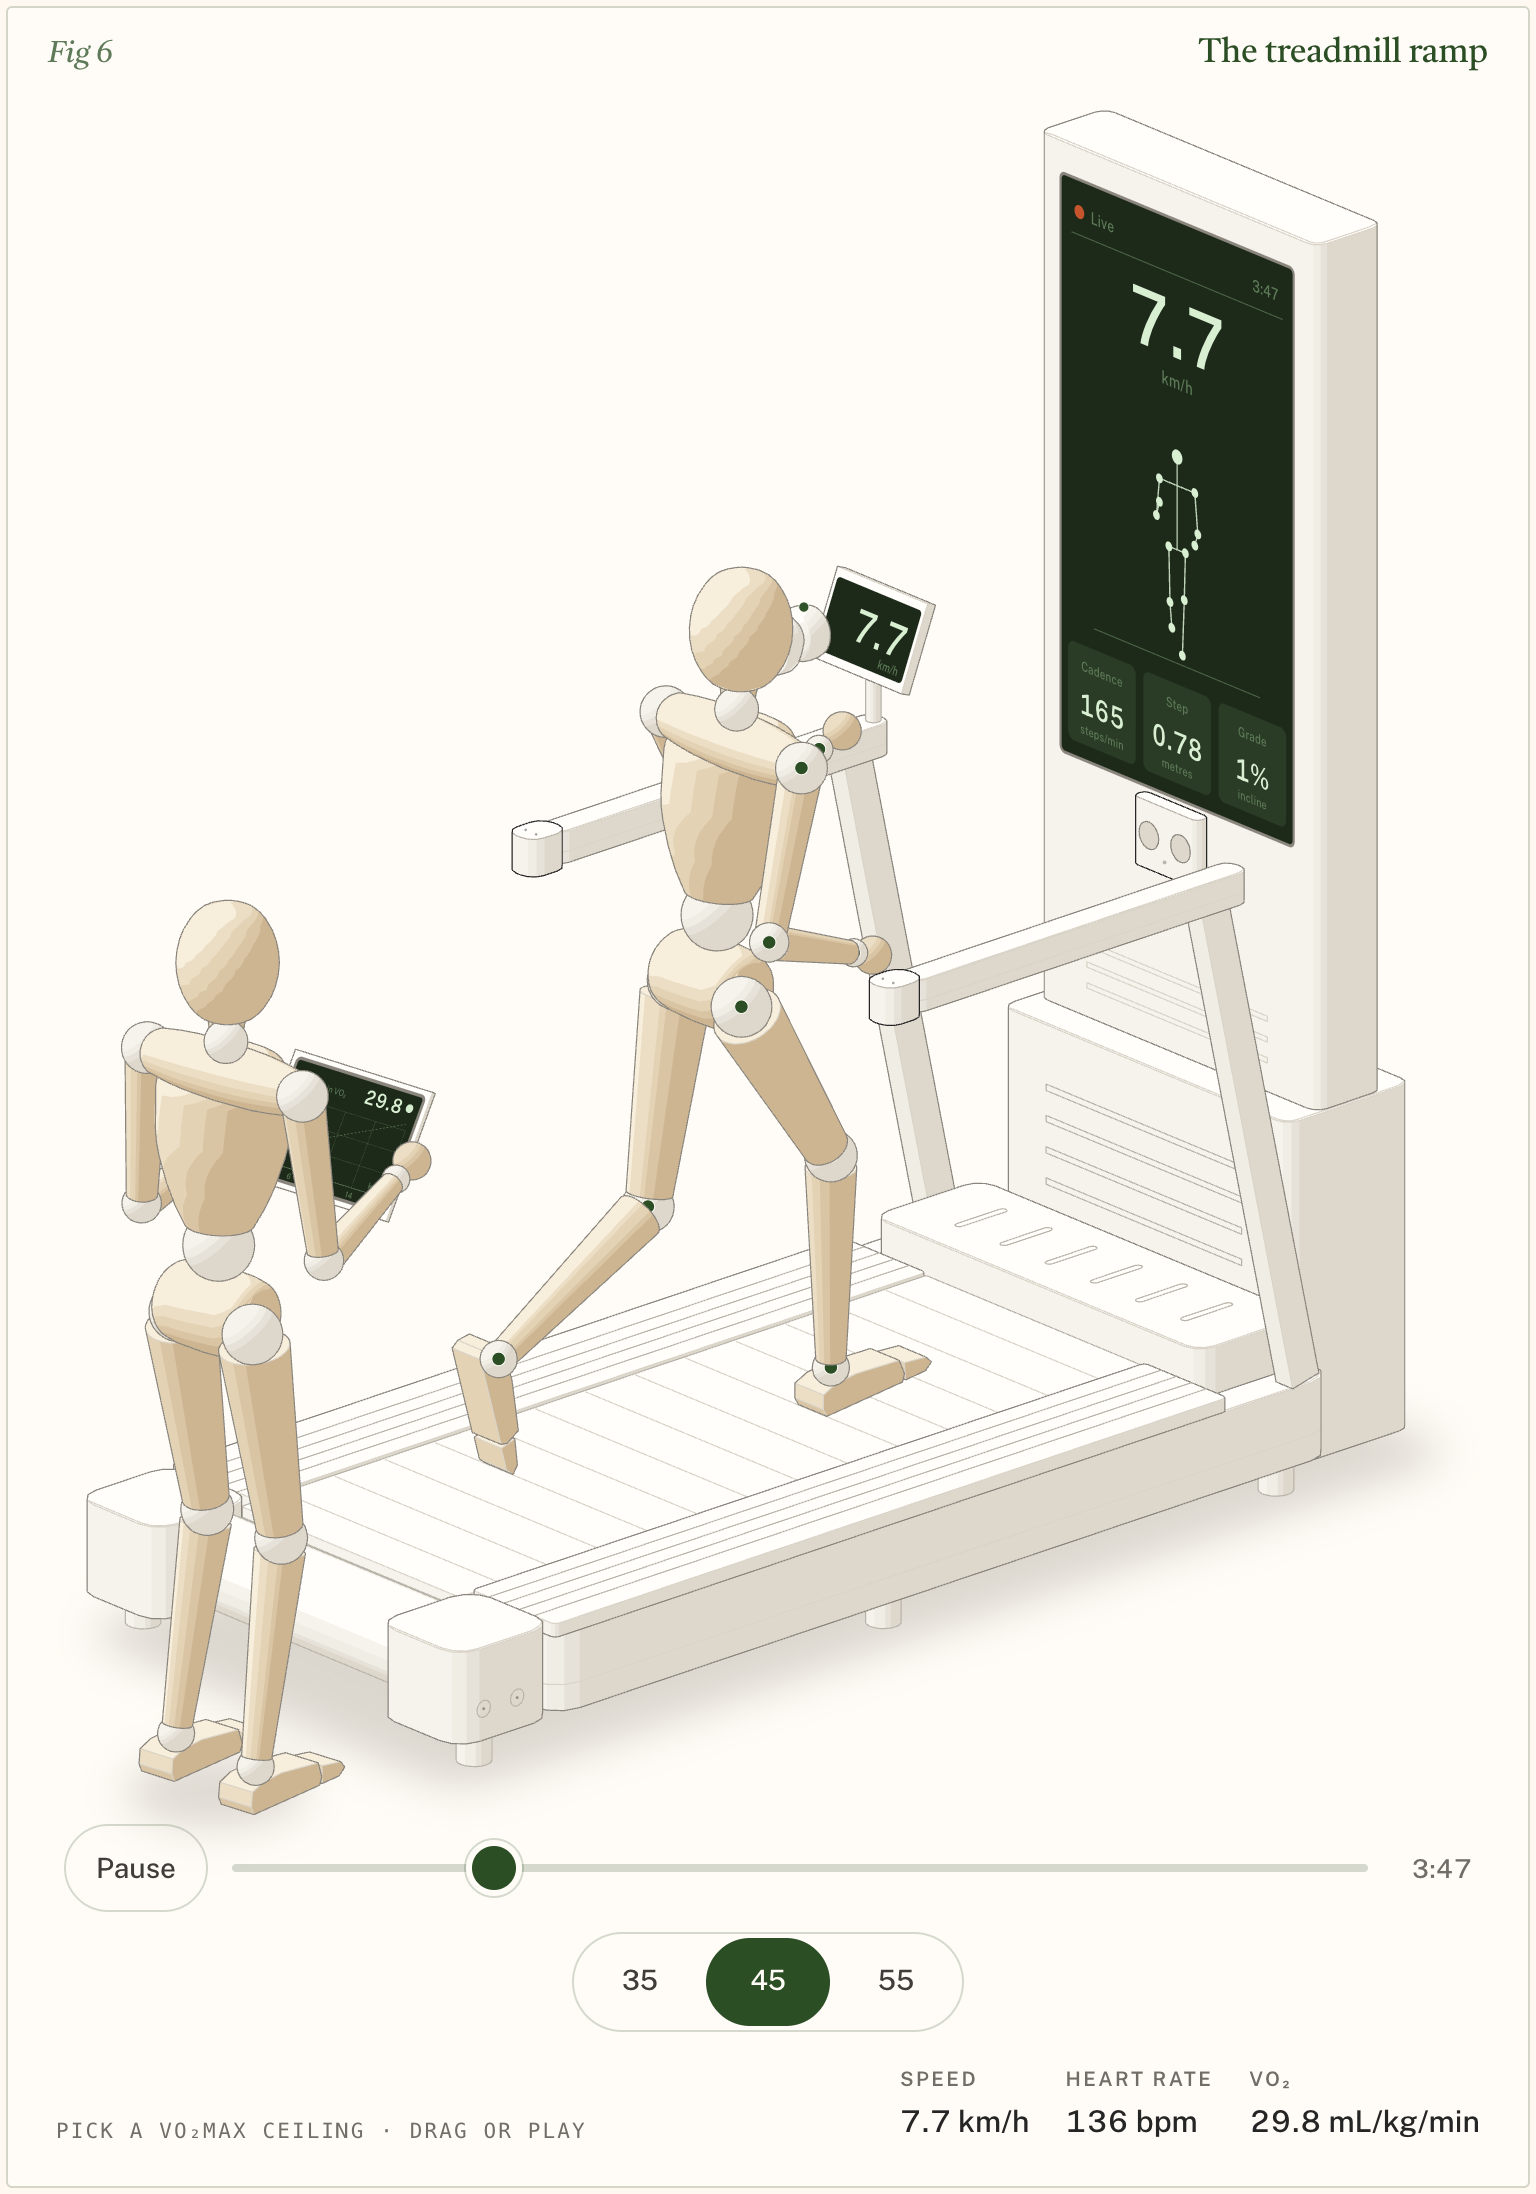
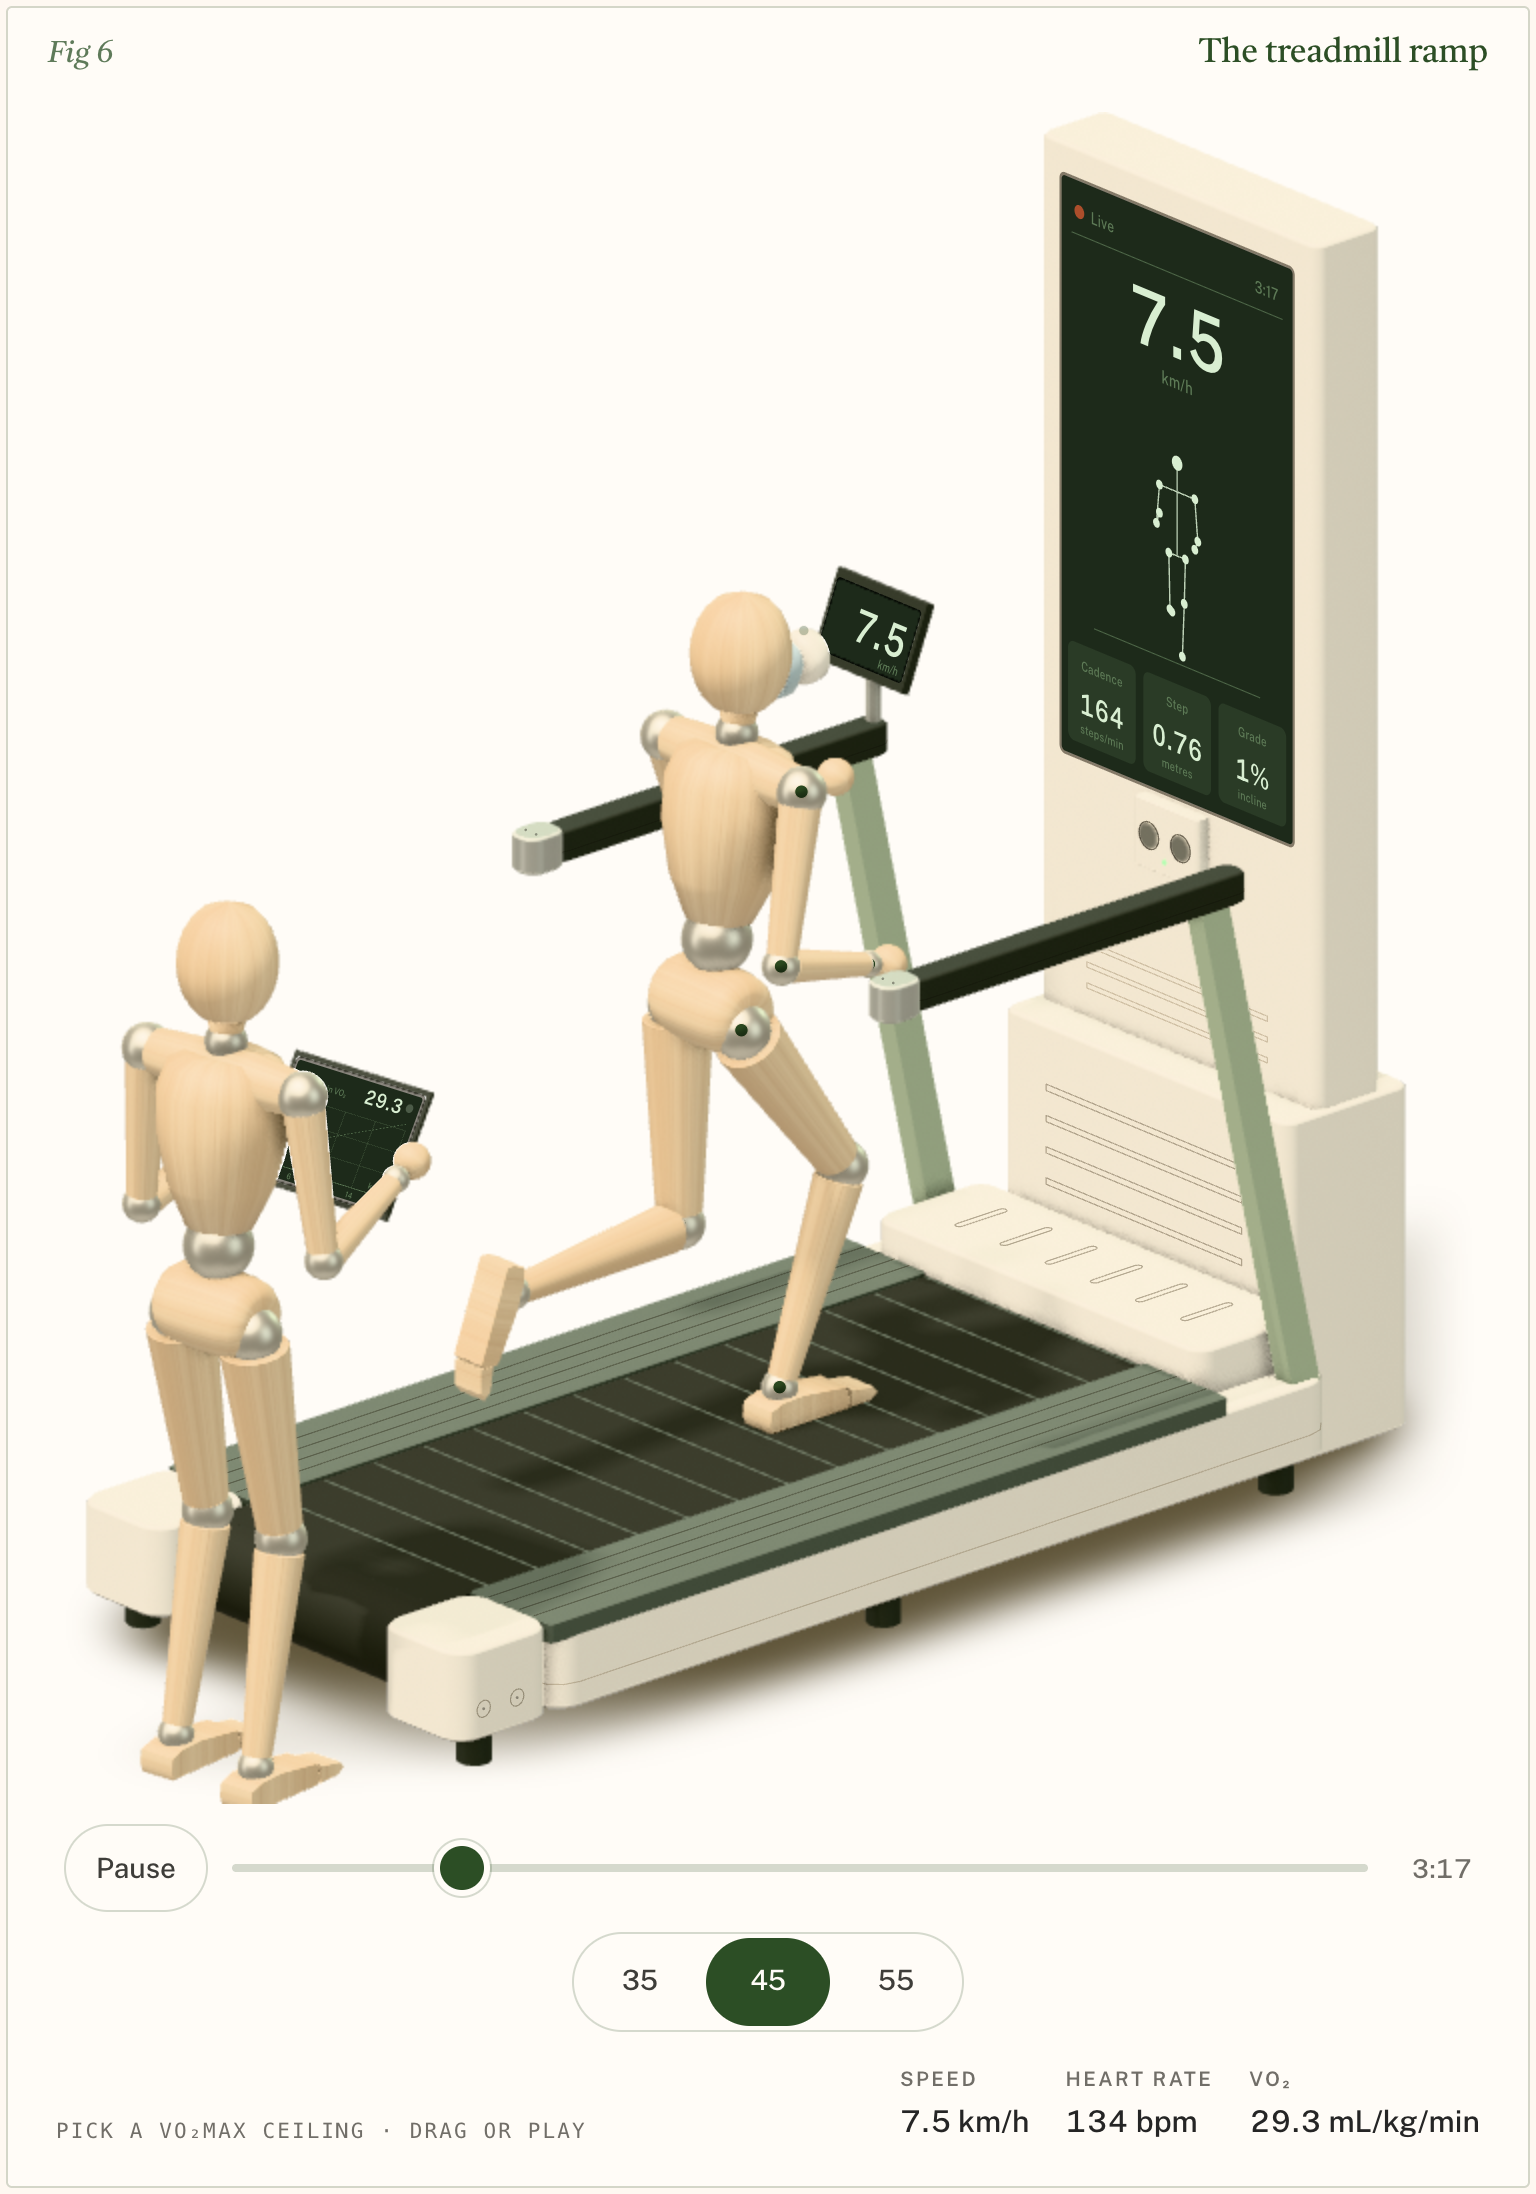
Fig 6 (the treadmill ramp) on the shared 3-D layer
The treadmill's 25 solids, the runner with mask and analyser and the
standing assessor all render, in Fig 4's colourway (the same Creator 600).
The display, the side panel and the tablet keep their drawn screens on
paper panels. The belt's slats are thin slate strips placed each frame
where the drawing puts its lines (ink can't show on rubber). Rendered
copies sink a few millimetres into what they stand on, so stacked solids
leave no hairline groove at phone size. With the layer off the drawing is
unchanged.

diff --git a/figures/06-vo2max-treadmill/live.js b/figures/06-vo2max-treadmill/live.js
@@ -23,7 +23,11 @@ function mount(fig) {
     return n;
   };
   const KS = P.scale * Math.sqrt(1.6);
-  const view = mannequinView(nodes.runner, P, {});
+  // the 3-D layer (shared/gl3): the same solids, rendered under this SVG. Until it arrives every call is a no-op.
+  const gl = gl3Attach(fig, { scene: DATA.gl3, P, W: DATA.W, H: DATA.H, file: DATA.gl3.file, v: DATA.gl3.v, redraw: () => render(0) });
+  const runnerSkin = (p) => (p.name === "mask" ? "silicone" : p.name === "analyser" ? "shell" : null);
+  const view = mannequinView(nodes.runner, P, { gl, key: "runner", materialOf: runnerSkin });
+  let glLit = false;
   const Z = DATA.beltZ;
   const base = [DATA.runX, 0, Z];
   const fmt = (min) => {
@@ -83,6 +87,16 @@ function mount(fig) {
     let d = "";
     for (let x = DATA.belt.x1 - off; x > DATA.belt.x + 0.5; x -= gap) d += lineOnTop([x, -DATA.belt.half + 0.6], [x, DATA.belt.half - 0.6], Z + 0.02, P);
     nodes.slats.setAttribute("d", d);
+    // The rendered belt (shared/gl3): the same lines as thin strips, each put where its line is drawn (ink can't show
+    // on rubber, so the drawn lines step aside while the layer is on). A strip keeps at least a device pixel of
+    // width, so a small or low-density stage doesn't break it into dashes.
+    if (!gl.on) return;
+    const st = gl.stats();
+    const fat = Math.max(1, 1.15 / (DATA.slats.w * KS * (st.cssW / DATA.W) * st.dpr));
+    for (let i = 0; i < DATA.slats.n; i++) {
+      const x = DATA.belt.x1 - off - i * gap;
+      gl.set(`belt.slat${i}`, x > DATA.belt.x + 0.5 ? { visible: true, F: { o: [x, 0, 0], a: [0, 0, 1], u: [fat, 0, 0], v: [0, 1, 0] } } : { visible: false });
+    }
   }
   // the Creator's screen as a clean live dashboard: clock, belt speed, the tracked skeleton on its
   // floor line, and tiles for cadence, step length and grade (all from the model)
@@ -175,6 +189,12 @@ function mount(fig) {
     if (nodes.speed) nodes.speed.textContent = s.v.toFixed(1);
     plotDraw(t, pulse);
     readout(s);
+    // the 3-D layer: the camera's pilot light glows (set once, when the layer arrives), then one render, last
+    if (gl.on !== glLit) {
+      glLit = gl.on;
+      if (glLit) gl.set("camera.pilot", { emissive: 0x7fe08a, intensity: 2.4 });
+    }
+    gl.render();
   }
 
   // ---------------------------------------------------------------- readout

diff --git a/figures/06-vo2max-treadmill/NOTES.md b/figures/06-vo2max-treadmill/NOTES.md
@@ -6,7 +6,7 @@
 - 25 recorded solids: Fig 4's deck, display, uprights, handrails and side touch panel, without Fig 4's gait instruments.
 - The page-drawn runner: Fig 4's mannequin and gait, run at the speed of the moment, plus the mask and analyser.
 - The assessor, drawn once by `shared/assessor.mjs`.
-- SVG only.
+- SVG, plus the shared real-time 3-D layer under it since 2026-11-10 (see "The 3-D layer" below). The SVG is still the whole figure wherever the layer can't run.
 
 **Mapping in one sentence:** the belt speeds up a little every few seconds while the mannequin runs in a mask whose wireless analyser blinks each breath. The assessor's tablet plots oxygen uptake against speed: a straight line at about 3.5 ml/kg/min per km/h (at a 1 % incline) that flattens at the ceiling. The display still draws the live skeleton, and the side panel shows the belt speed.
 
@@ -24,6 +24,18 @@ It's a generic UI, not a copy of the Creator software. Audit passed and `lines.m
 - Measured by hit-testing the digits through the stride at each ceiling, at 1100 and 390 px:
   - The first digit was up to 94 % covered; now nothing beyond the blank bezel is.
 - The stage viewBox is unchanged (600 × 713), so card reserves stand. `scripts/verify.mjs` passed: line ends 0 in both themes, fits at 390/360/320, console clean.
+
+**The 3-D layer (2026-11-10, `shared/gl3`):** the figure's own solids are now rendered under the drawing (PBR materials, studio light, soft shadows), and the SVG stays on top as the ink. Nothing in the model, the numbers, the words or the interaction changed, and with `?gl=off` (or wherever the layer can't run) the page is the drawing as before, checked pixel for pixel against the previous build in both themes at 900 and 390 px.
+
+- **Colourway: Fig 4's, the same machine. Keep the two in step.** Warm white shells (housing, rear caps, hood, column, display), sage uprights, a rubber belt running on over its roller, slate step rails, graphite handrails with brushed aluminium ends, a steel stalk under a graphite side panel, graphite feet. The runner and the assessor are Fig 5's: maple with satin nickel joints, a silicone mask with a white analyser, a graphite tablet.
+- **Screens:** the display, the side panel and the tablet each have a `paper` panel under the drawn screen, so their colours show exactly as drawn.
+- **The belt's slats** are ink in the drawing, and ink can't show on rubber. The layer carries the same lines as thin slate strips (`belt.slat0…14`); `beltSvg()` in `live.js` puts each one where it draws its line, every frame, and widens them on a small stage so they never break into dashes. The drawn lines step aside while the layer is on (`data-gl3-hide`).
+- **The depth camera's** apertures are nickel bezels with dark glass and its pilot light glows; the drawn lens fills and pilot dot step aside (`data-gl3-hide`), the drawn rings stay.
+- **Left as drawn (ink over the render):** the analyser's blinking light and the joint tracking dots (tiny markers on white and nickel), every seam, vent slot, tread line, bolt and screw, and everything on the three screens.
+- **Joints.** The kit stands one solid exactly on the next and the renderer rounds every solid's ends, which leaves a hairline groove at each joint: a dotted dark line at phone size. The rendered copies (never the drawing's solids) are let a few millimetres into what they stand on or butt against: display into column, hood into housing and column, step rails into housing, caps and hood, uprights into housing, camera into display. See `sink` and `grow` in `build.mjs`. Fig 4 doesn't do this yet.
+- **Look:** `aoRadius: 5, ao: 0.8`, as Fig 4 (a long, low machine: the default occlusion radius turns grainy at the phone quality level).
+- **Known limits.** The assessor stands at the stage's bottom edge, where the layer's floor shadow has faded out, so their feet have next to no ground shadow. Keeping the drawn halo there left a white fringe round the feet, so it stays hidden. The seam between each rear cap and the housing is a little rough at the phone quality level.
+- `node scripts/verify.mjs 06-vo2max-treadmill` passed (stage ends at `data-gl3="on"`, console clean, line ends 0 with `?gl=off`). The embed (`embed/test.html`) ends at `data-gl3="on"` too; `optimal-gl3.js` sits next to the embed script.
 
 ## Numbers
 
